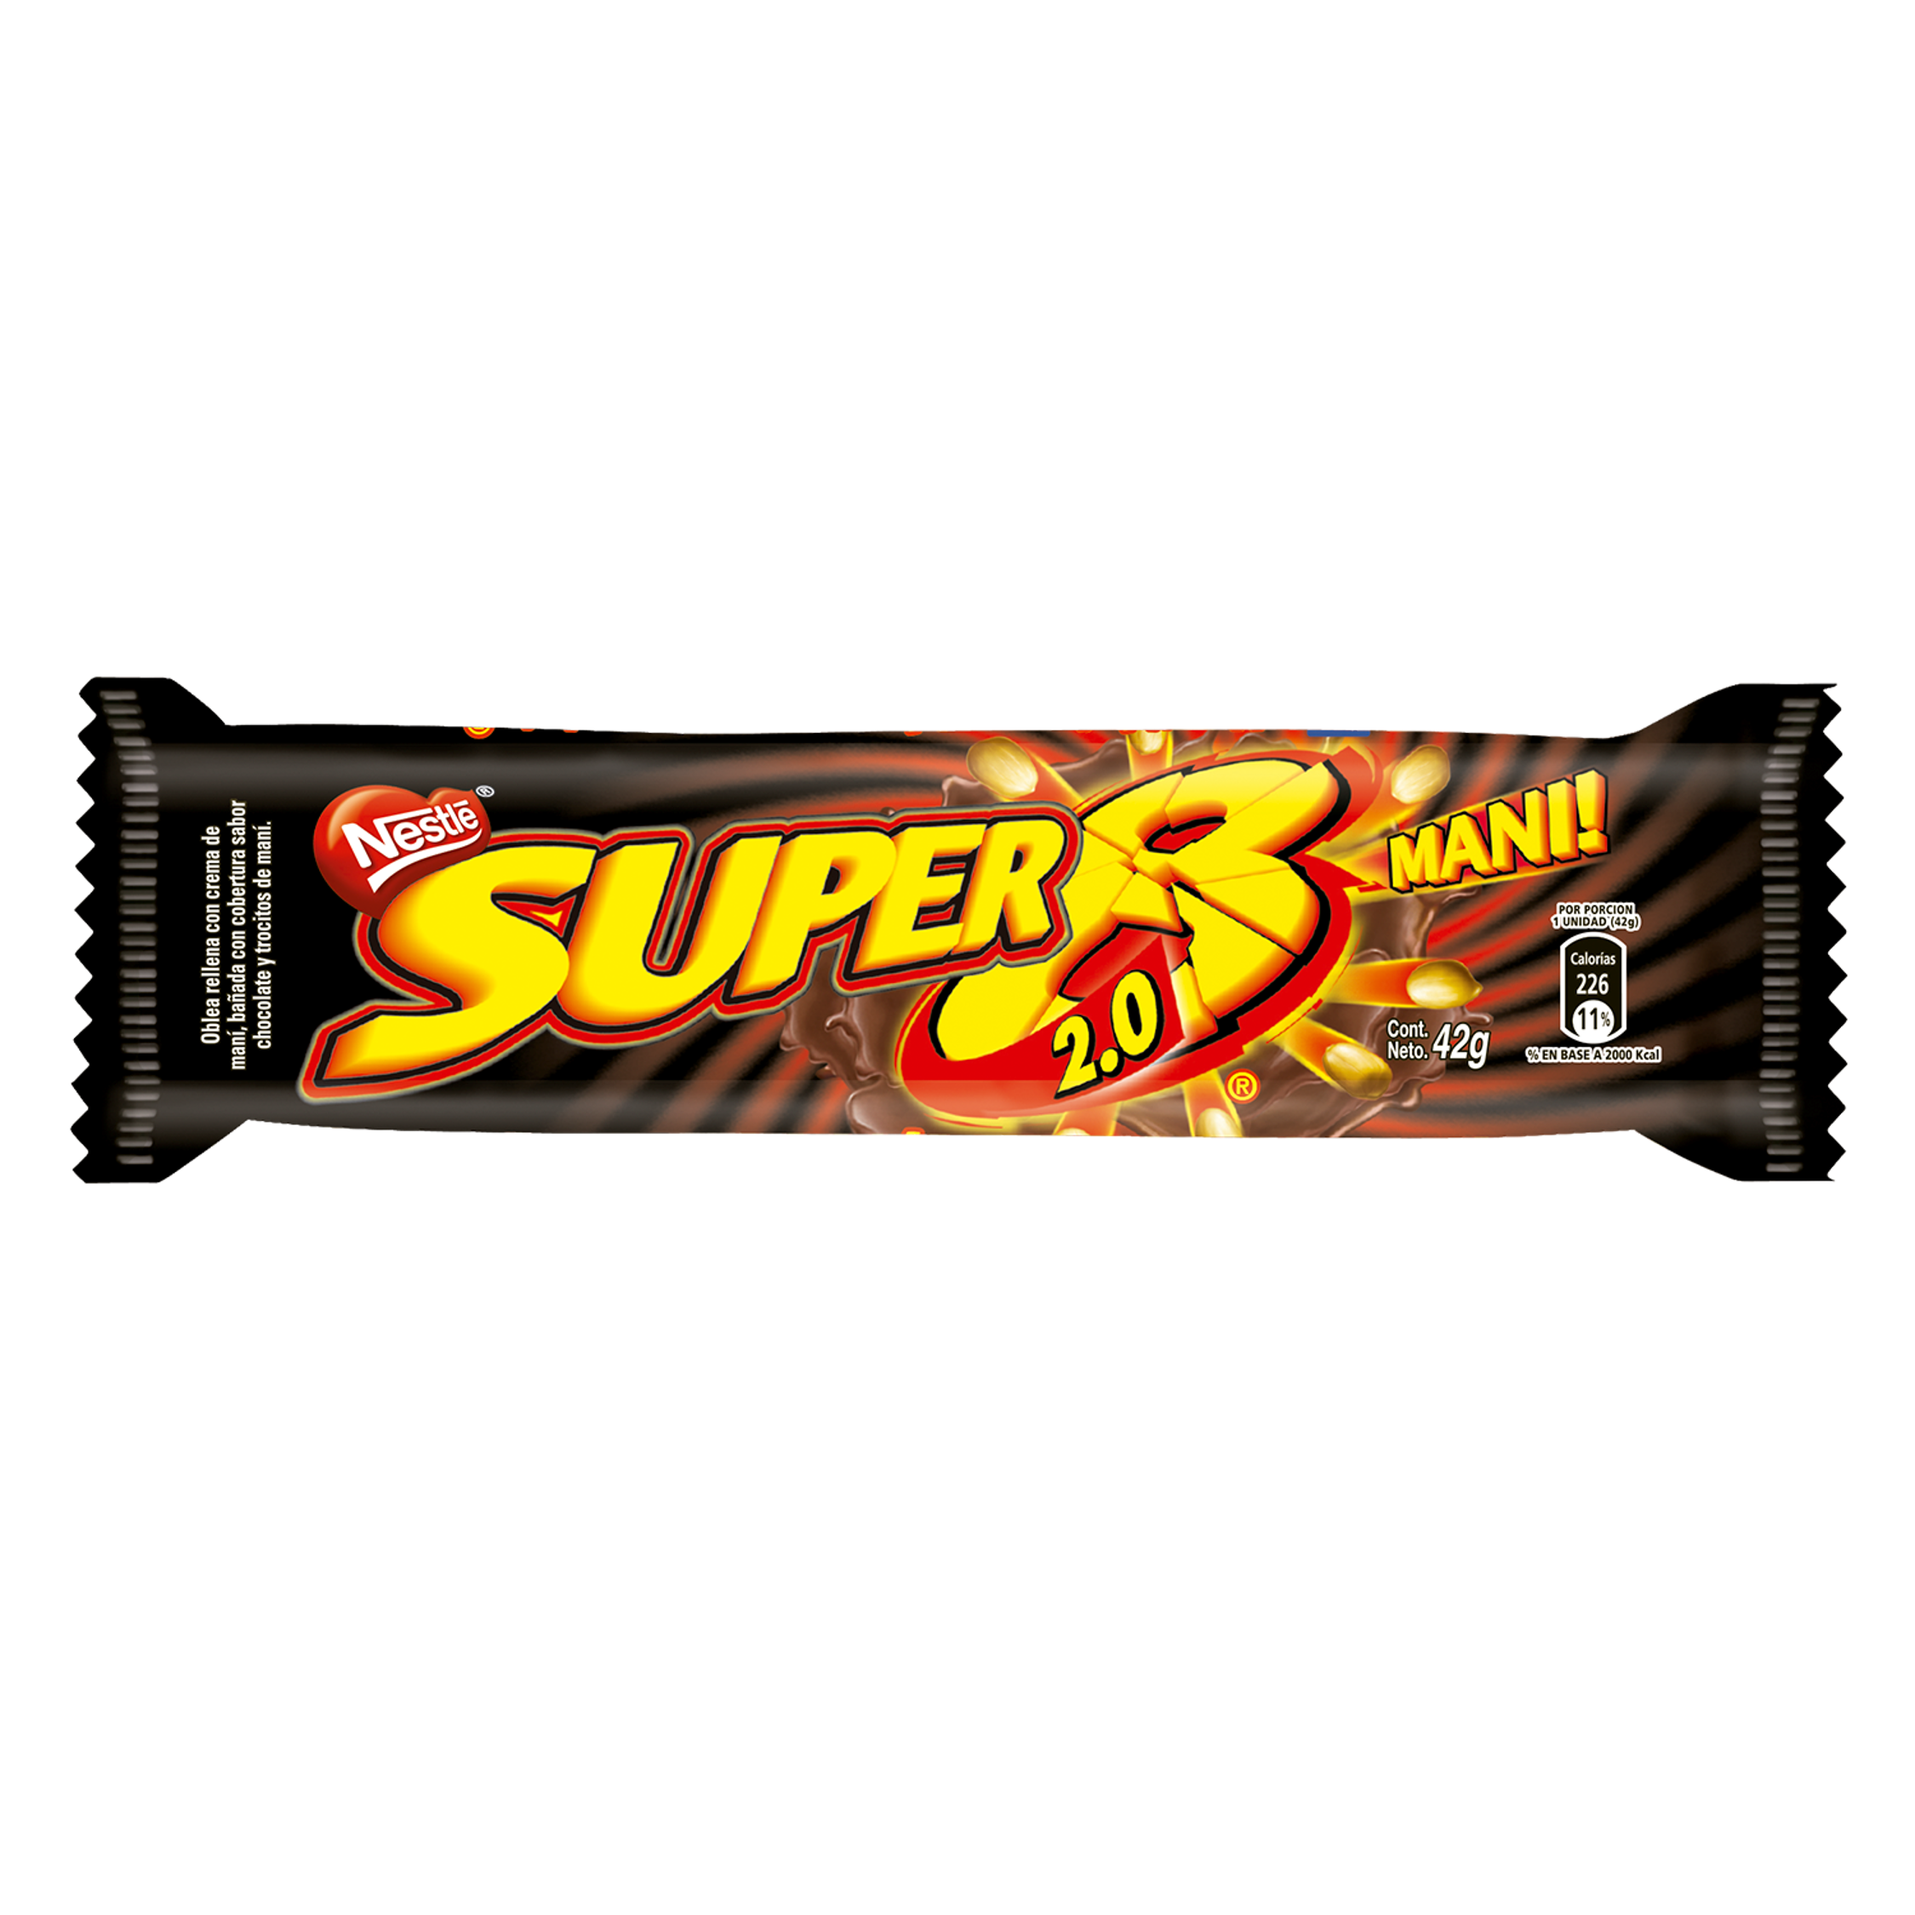
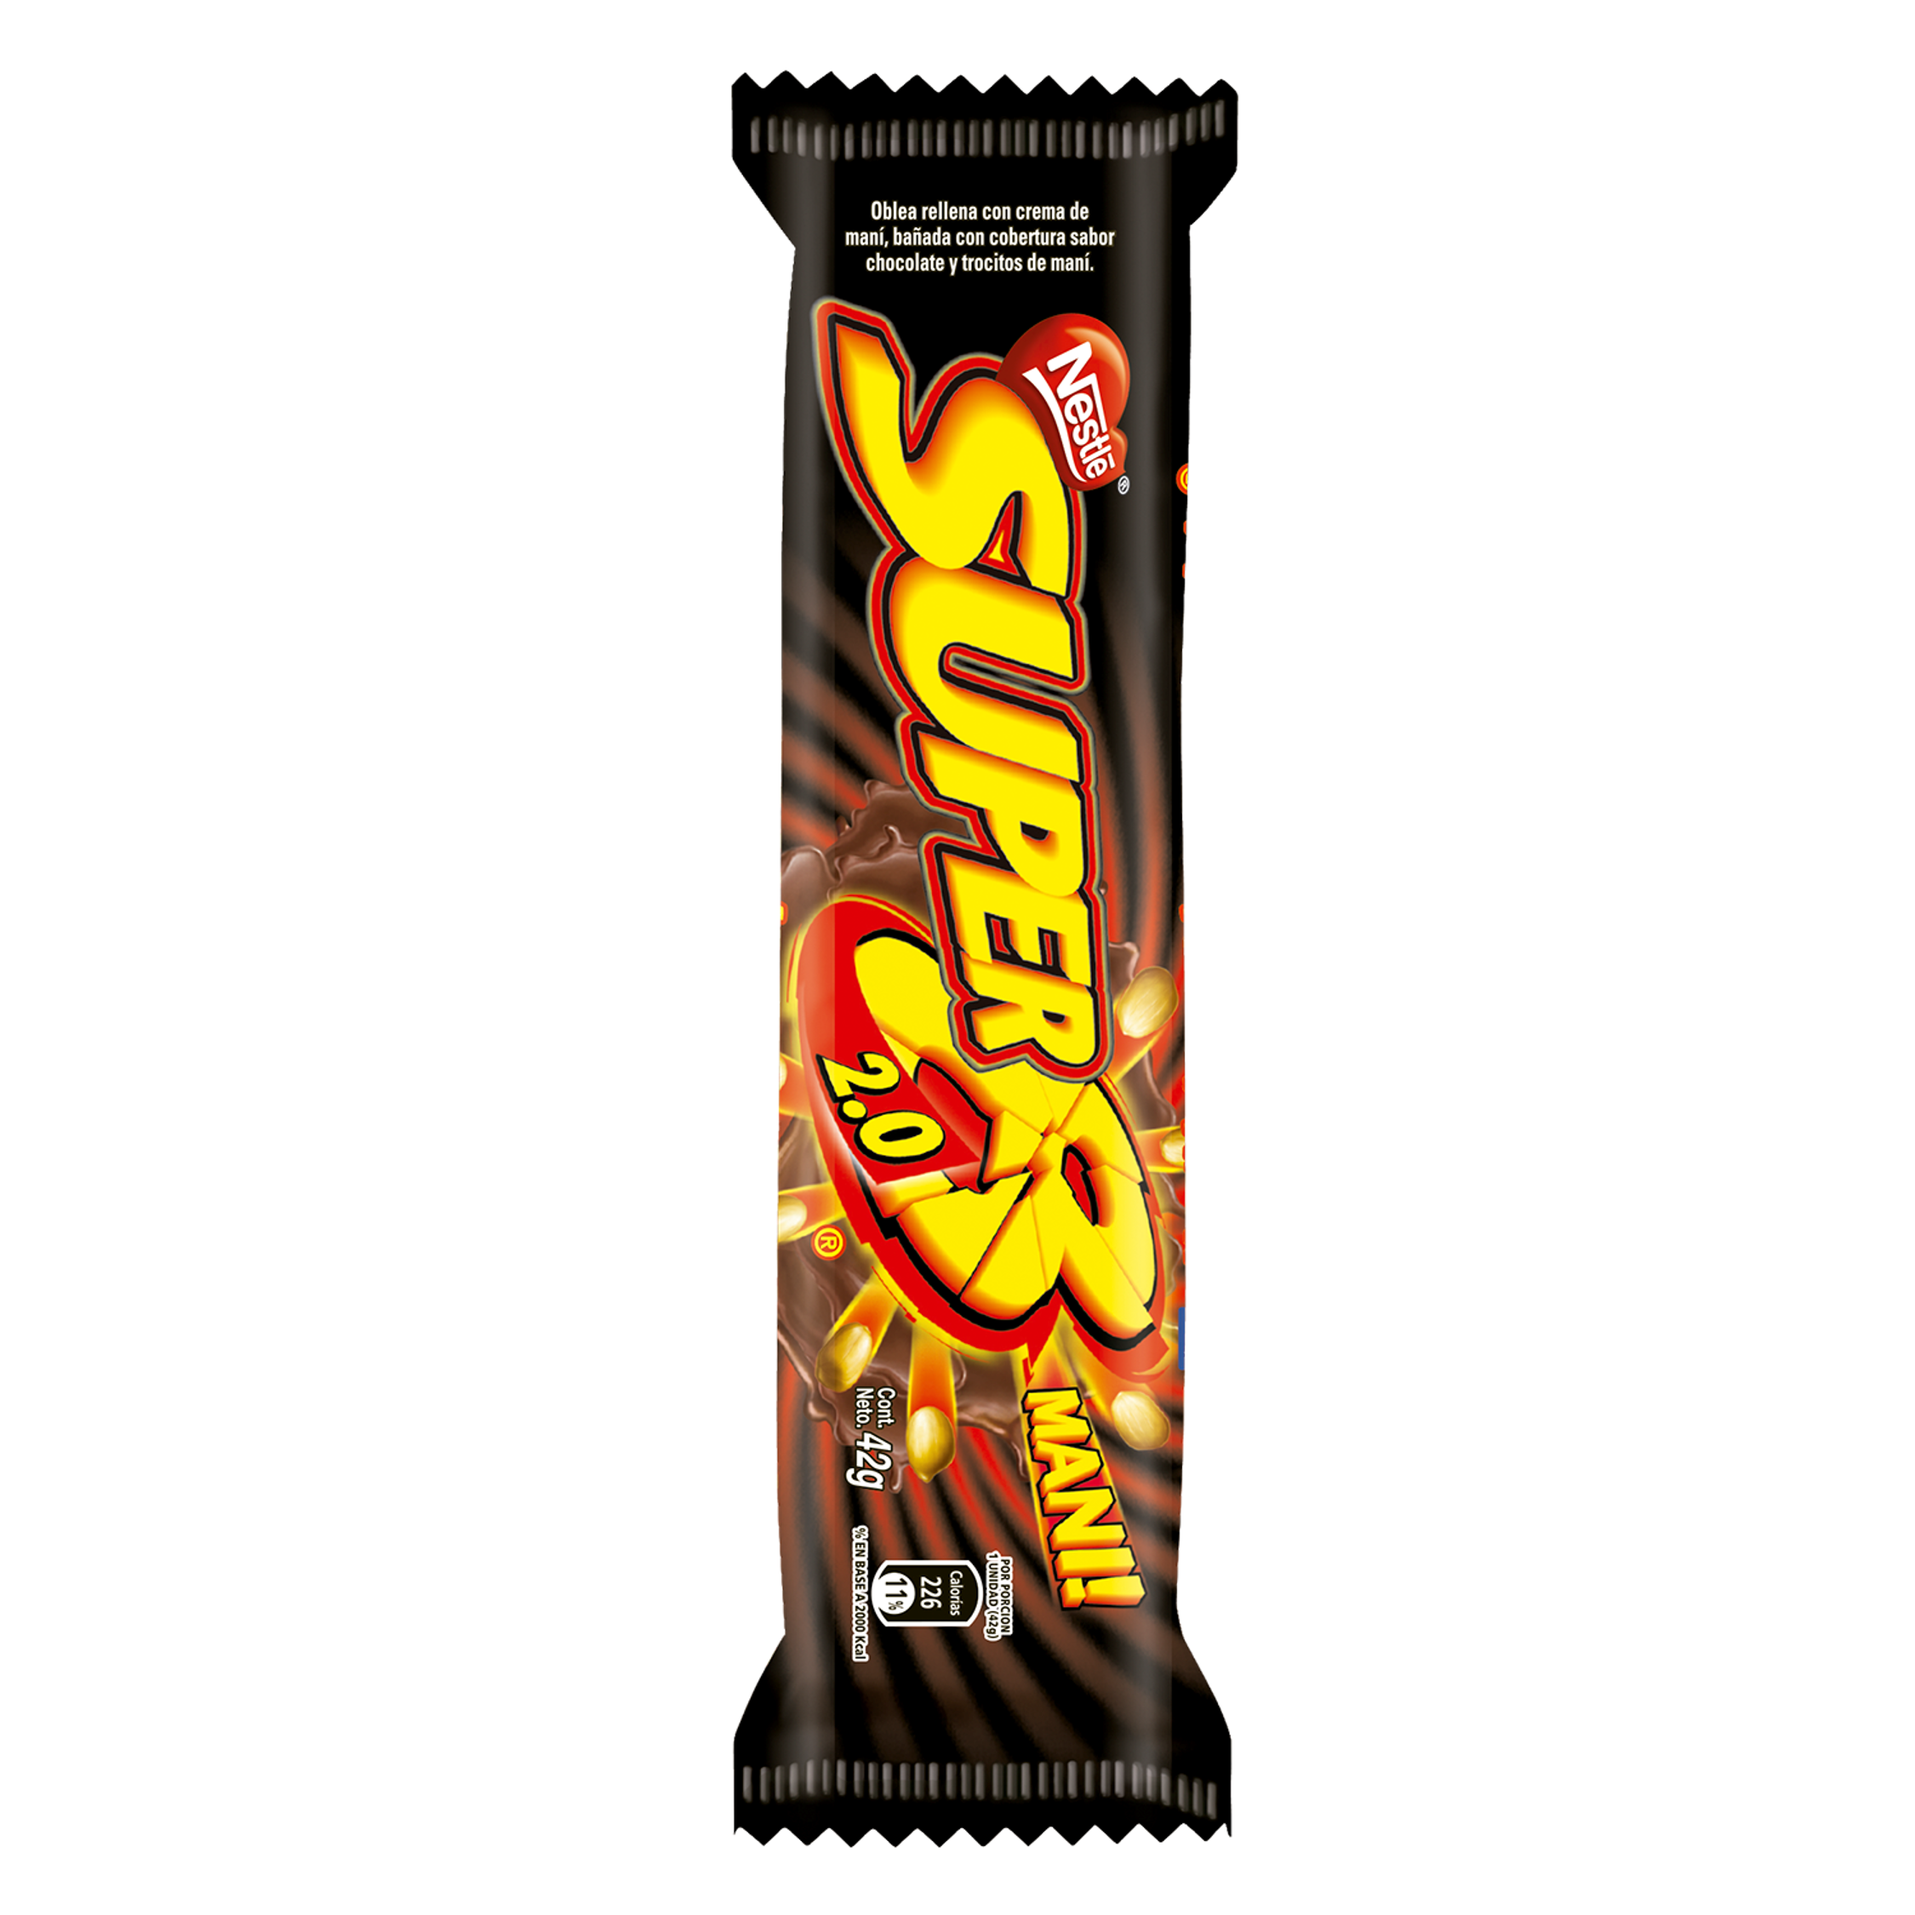
Creación clase PanelDepositoSuper8 y modificacion de imagen de super8

diff --git a/Tarea-3/src/grafica/PanelDepositoSuper8.java b/Tarea-3/src/grafica/PanelDepositoSuper8.java
@@ -4,9 +4,33 @@ import javax.swing.*;
 import java.awt.*;
 
 public class PanelDepositoSuper8 extends JPanel {
+    private Image imSuper8;
+    private int cantidadProducto;
     public PanelDepositoSuper8(){
+        cantidadProducto = 5;
+        imSuper8 = new ImageIcon("src/grafica/imagenes/super8.png").getImage();
 
-        this.setLayout(new GridLayout(1,5));
         this.setBackground(Color.BLACK);
+    }
+    @Override
+    public void paintComponent(Graphics g){
+        super.paintComponent(g);
+
+        int anchoPanel = this.getWidth();
+        int altoPanel = this.getHeight();
+        //rectangulo fondo deposito
+        g.setColor(Color.GRAY);
+        g.fillRect(anchoPanel*4/100,altoPanel*14/100,anchoPanel*94/100,altoPanel*79/100);
+        g.drawLine(0,0,anchoPanel*4/100,altoPanel*14/100);
+        g.drawLine(0,altoPanel,anchoPanel*4/100,altoPanel*92/100);
+        g.drawLine(anchoPanel,0,anchoPanel*98/100,altoPanel*15/100);
+        g.drawLine(anchoPanel,altoPanel,anchoPanel*98/100,altoPanel*92/100);
+        //productos en el deposito
+        int tamanoIm = anchoPanel/5;
+        for(int i = 0 ; i < cantidadProducto ; i++){
+            g.drawImage(imSuper8,tamanoIm*i,altoPanel/4,tamanoIm,tamanoIm,this);
+        }
+
+
     }
 }
